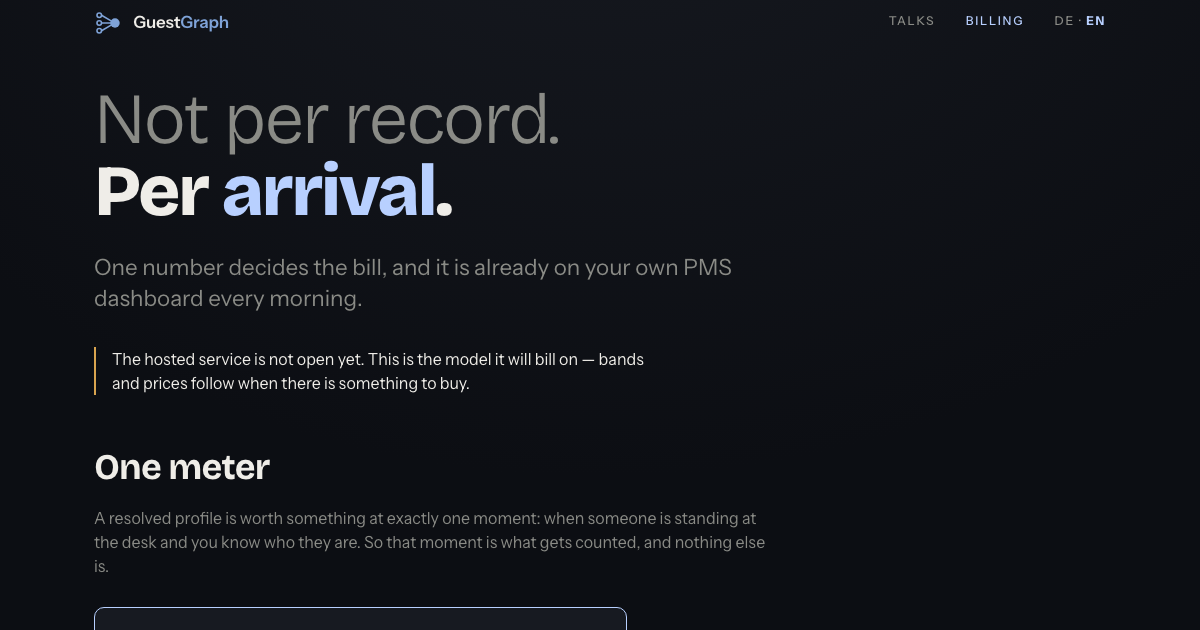
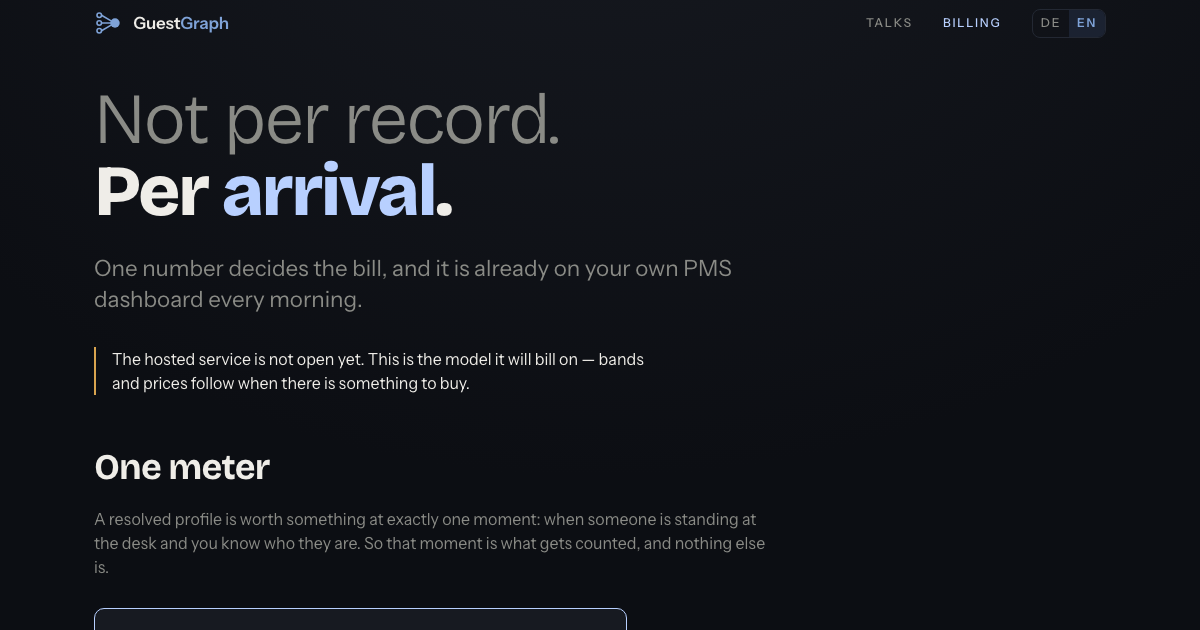
Give the pages the deck's language control, and align the header on its text
The switcher was one button with two clickable spans inside it: two targets to
a pointer, one button and two pieces of text to a screen reader, and the
current language signalled by colour alone. The deck already had the right
control in its transport — a segmented pair of real buttons carrying
aria-pressed — so the pages take that, at nav scale.

Putting a bordered control beside the words exposed that the row was never
aligned. `nav` is a flex row and its links stretched to the row's height with
their text at the top, so the words sat 5px above the control. Two fixes: the
row centres its items, and each link's box is symmetric about its own text —
the hover underline hangs below, so the space is mirrored above. One line now
runs through the middle of the wordmark, every nav item and both segments,
0.11px apart across all four pages.

Assert it with `headerBaseline`, measured on the text rather than the boxes: a
box can be centred while its text is not, which is precisely the bug, and a
check comparing boxes would have called it aligned. Two tolerances, because
there are two fonts — half a pixel across the nav row, which is one face at one
size, and 1.5px for the wordmark, where the line box inside the em box is the
font's business.

Two faults fell out of the work. The hover rule used the `border-color`
shorthand, which with a transparent border now on both edges drew a line above
the word as well as under it. And two pages carried two
[…]

diff --git a/billing/index.html b/billing/index.html
@@ -133,17 +133,36 @@
   .brand svg{width:28px; height:28px; color:var(--c-mid); flex:0 0 auto}
   .brand b{font-weight:600; font-size:1.06rem; letter-spacing:-.01em}
   .brand b span{color:var(--c-mid)}
-  nav{display:flex; gap:1.9rem; font-size:.76rem; font-weight:500;
+  /* `align-items:center`, not the default `stretch`: a stretched link is a box the height of
+     the whole row with its text at the top, which put the words above the language control
+     beside them. Centred, each box is its own height and one line runs through every text. */
+  nav{display:flex; align-items:center; gap:1.9rem; font-size:.76rem; font-weight:500;
       letter-spacing:.14em; text-transform:uppercase}
-  nav a{color:var(--dim); text-decoration:none; padding-bottom:.2rem; border-bottom:1px solid transparent}
-  nav a:hover, nav a:focus-visible{color:var(--ink); border-color:var(--c-mid)}
+  /* The hover underline hangs below the text, so the box is taller under the text than over
+     it. Mirror the space above, and the box is symmetric about its own text. */
+  nav a{color:var(--dim); text-decoration:none; padding:.2rem 0;
+        border-top:1px solid transparent; border-bottom:1px solid transparent}
+  /* Hover is an underline and nothing else: `border-bottom-color`, not `border-color`,
+     because the box now has a transparent border on both edges to keep its text centred,
+     and `border-color` painted a line above the word as well as under it.
+     The current page is not underlined — it is brighter. A page marks where you are with
+     a different weight of ink; the underline is what follows the pointer. When both used
+     the same line, the selected item read as permanently hovered. */
+  nav a:hover, nav a:focus-visible{border-bottom-color:var(--c-mid)}
   /* the page you are on is a resolved fact, so it takes the resolved colour */
   nav a[aria-current="page"]{color:var(--c-firm)}
-  .langind{font:inherit; letter-spacing:inherit; text-transform:inherit; background:none;
-           border:0; border-bottom:1px solid transparent; padding:0 0 .2rem; cursor:pointer;
-           color:var(--dim); white-space:nowrap}
-  .langind:hover{color:var(--ink)}
-  .langind .on{color:var(--c-firm); font-weight:700}
+  /* The segmented control the decks put in their transport, at nav scale. Two real buttons
+     in one bordered box, the pressed one filled — someone who has used the deck already
+     knows what it is. It replaces one button with two clickable spans inside it, which said
+     one thing to a pointer and another to a screen reader. */
+  .seg{display:inline-flex; border:1px solid var(--rule); border-radius:8px; overflow:hidden;
+       flex:0 0 auto}
+  .seg button{font:inherit; letter-spacing:inherit; text-transform:inherit; background:none;
+              border:0; cursor:pointer; padding:.26rem .5rem; color:var(--dim);
+              transition:color .15s ease, background-color .15s ease}
+  .seg button:hover{color:var(--ink)}
+  .seg button[aria-pressed="true"]{color:var(--c-mid); background:#1b2231; font-weight:600}
+  .seg button:focus-visible{outline:2px solid var(--c-mid); outline-offset:-2px}
 
   /* Not one screen: this page has an argument to make in order, so it scrolls and
      starts at the top rather than centring itself the way the landing page does. */
@@ -244,7 +263,7 @@
       <nav>
         <a href="../talks/" data-de="Vorträge">Talks</a>
         <a href="./" aria-current="page" data-de="Abrechnung">Billing</a>
-        <button class="langind" id="langind" type="button" aria-label="Sprache wechseln — switch language"><span id="lde">DE</span> · <span id="len">EN</span></button>
+        <div class="seg" id="langind" role="group" aria-label="Sprache wechseln — switch language"><button type="button" id="lde" aria-pressed="false">DE</button><button type="button" id="len" aria-pressed="true">EN</button></div>
       </nav>
     </div>
   </header>
@@ -336,15 +355,14 @@
     i18n.forEach(function(el){ el.innerHTML = el.getAttribute("data-" + lang); });
     document.title = UI[lang].title;
     document.getElementById("metadesc").setAttribute("content", UI[lang].desc);
-    document.getElementById("lde").classList.toggle("on", lang === "de");
-    document.getElementById("len").classList.toggle("on", lang === "en");
+    document.getElementById("lde").setAttribute("aria-pressed", String(lang === "de"));
+    document.getElementById("len").setAttribute("aria-pressed", String(lang === "en"));
     document.documentElement.lang = lang;
   }
   function toggle(){ lang = (lang === "de") ? "en" : "de"; remember(lang); applyLang(); }
 
-  document.getElementById("langind").addEventListener("click", toggle);
-  document.getElementById("lde").addEventListener("click", function(e){ e.stopPropagation(); if(lang!=="de") toggle(); });
-  document.getElementById("len").addEventListener("click", function(e){ e.stopPropagation(); if(lang!=="en") toggle(); });
+  document.getElementById("lde").addEventListener("click", function(){ if (lang !== "de") toggle(); });
+  document.getElementById("len").addEventListener("click", function(){ if (lang !== "en") toggle(); });
   document.addEventListener("keydown", function(e){ if(e.key === "l" || e.key === "L") toggle(); });
 
   applyLang();

diff --git a/index.html b/index.html
@@ -138,17 +138,37 @@
   .brand svg{width:28px; height:28px; color:var(--c-mid); flex:0 0 auto}
   .brand b{font-weight:600; font-size:1.06rem; letter-spacing:-.01em}
   .brand b span{color:var(--c-mid)}
-  nav{display:flex; gap:1.9rem; font-size:.76rem; font-weight:500;
+  /* `align-items:center`, not the default `stretch`: a stretched link is a box the height of
+     the whole row with its text at the top, which put the words above the language control
+     beside them. Centred, each box is its own height and one line runs through every text. */
+  nav{display:flex; align-items:center; gap:1.9rem; font-size:.76rem; font-weight:500;
       letter-spacing:.14em; text-transform:uppercase}
-  nav a{color:var(--dim); text-decoration:none; padding-bottom:.2rem; border-bottom:1px solid transparent}
-  nav a:hover, nav a:focus-visible{color:var(--ink); border-color:var(--c-mid)}
+  /* The hover underline hangs below the text, so the box is taller under the text than over
+     it. Mirror the space above, and the box is symmetric about its own text. */
+  nav a{color:var(--dim); text-decoration:none; padding:.2rem 0;
+        border-top:1px solid transparent; border-bottom:1px solid transparent}
+  /* Hover is an underline and nothing else: `border-bottom-color`, not `border-color`,
+     because the box now has a transparent border on both edges to keep its text centred,
+     and `border-color` painted a line above the word as well as under it.
+     The current page is not underlined — it is brighter. A page marks where you are with
+     a different weight of ink; the underline is what follows the pointer. When both used
+     the same line, the selected item read as permanently hovered. */
+  nav a:hover, nav a:focus-visible{border-bottom-color:var(--c-mid)}
+  nav a[aria-current="page"]{color:var(--c-firm)}
   /* the language control is a nav item, not a floating badge: it belongs with the
      other things you can do to the page rather than on top of the page */
-  .langind{font:inherit; letter-spacing:inherit; text-transform:inherit; background:none;
-           border:0; border-bottom:1px solid transparent; padding:0 0 .2rem; cursor:pointer;
-           color:var(--dim); white-space:nowrap}
-  .langind:hover{color:var(--ink)}
-  .langind .on{color:var(--c-firm); font-weight:700}
+  /* The segmented control the decks put in their transport, at nav scale. Two real buttons
+     in one bordered box, the pressed one filled — someone who has used the deck already
+     knows what it is. It replaces one button with two clickable spans inside it, which said
+     one thing to a pointer and another to a screen reader. */
+  .seg{display:inline-flex; border:1px solid var(--rule); border-radius:8px; overflow:hidden;
+       flex:0 0 auto}
+  .seg button{font:inherit; letter-spacing:inherit; text-transform:inherit; background:none;
+              border:0; cursor:pointer; padding:.26rem .5rem; color:var(--dim);
+              transition:color .15s ease, background-color .15s ease}
+  .seg button:hover{color:var(--ink)}
+  .seg button[aria-pressed="true"]{color:var(--c-mid); background:#1b2231; font-weight:600}
+  .seg button:focus-visible{outline:2px solid var(--c-mid); outline-offset:-2px}
 
   main{flex:1; display:flex; align-items:center; padding:2vh 0 5vh}
 
@@ -284,7 +304,7 @@
       <nav>
         <a href="talks/" data-de="Vorträge">Talks</a>
         <a href="billing/" data-de="Abrechnung">Billing</a>
-        <button class="langind" id="langind" type="button" aria-label="Sprache wechseln — switch language"><span id="lde">DE</span> · <span id="len">EN</span></button>
+        <div class="seg" id="langind" role="group" aria-label="Sprache wechseln — switch language"><button type="button" id="lde" aria-pressed="false">DE</button><button type="button" id="len" aria-pressed="true">EN</button></div>
       </nav>
     </div>
   </header>
@@ -386,15 +406,14 @@
     i18n.forEach(function(el){ el.innerHTML = el.getAttribute("data-" + lang); });
     document.title = UI[lang].title;
     document.getElementById("metadesc").setAttribute("content", UI[lang].desc);
-    document.getElementById("lde").classList.toggle("on", lang === "de");
-    document.getElementById("len").classList.toggle("on", lang === "en");
+    document.getElementById("lde").setAttribute("aria-pressed", String(lang === "de"));
+    document.getElementById("len").setAttribute("aria-pressed", String(lang === "en"));
     document.documentElement.lang = lang;
   }
   function toggle(){ lang = (lang === "de") ? "en" : "de"; remember(lang); applyLang(); }
 
-  document.getElementById("langind").addEventListener("click", toggle);
-  document.getElementById("lde").addEventListener("click", function(e){ e.stopPropagation(); if(lang!=="de") toggle(); });
-  document.getElementById("len").addEventListener("click", function(e){ e.stopPropagation(); if(lang!=="en") toggle(); });
+  document.getElementById("lde").addEventListener("click", function(){ if (lang !== "de") toggle(); });
+  document.getElementById("len").addEventListener("click", function(){ if (lang !== "en") toggle(); });
   document.addEventListener("keydown", function(e){ if(e.key === "l" || e.key === "L") toggle(); });
 
   applyLang();

diff --git a/talks/index.html b/talks/index.html
@@ -143,20 +143,36 @@
   .brand b span{color:var(--c-mid)}
   nav{display:flex; align-items:center; gap:1.9rem; font-size:.76rem; font-weight:500;
       letter-spacing:.14em; text-transform:uppercase}
-  nav a{color:var(--dim); text-decoration:none; padding-bottom:.2rem; border-bottom:1px solid transparent}
-  nav a:hover, nav a:focus-visible{color:var(--ink); border-color:var(--c-mid)}
+  /* The hover underline hangs below the text, so the box is taller under the text than over
+     it. Mirror the space above, and the box is symmetric about its own text. */
+  nav a{color:var(--dim); text-decoration:none; padding:.2rem 0;
+        border-top:1px solid transparent; border-bottom:1px solid transparent}
+  /* Hover is an underline and nothing else: `border-bottom-color`, not `border-color`,
+     because the box now has a transparent border on both edges to keep its text centred,
+     and `border-color` painted a line above the word as well as under it.
+     The current page is not underlined — it is brighter. A page marks where you are with
+     a different weight of ink; the underline is what follows the pointer. When both used
+     the same line, the selected item read as permanently hovered. */
+  nav a:hover, nav a:focus-visible{border-bottom-color:var(--c-mid)}
   /* the bar is the same component on both sites, so this page says which one you are on
      rather than dropping the item and leaving the header subtly different */
-  nav a[aria-current="page"]{color:var(--c-firm); border-color:var(--c-firm)}
+  nav a[aria-current="page"]{color:var(--c-firm)}
 
   /* The language control lives in the bar rather than floating over the page. The deck
      keeps its fixed DE/EN indicator because a deck is presented; this is a page that is
      clicked, and a visible control in the header explains itself without a key hint. */
-  .langind{font:inherit; letter-spacing:inherit; text-transform:inherit; background:none;
-           border:0; border-bottom:1px solid transparent; padding:0 0 .2rem; cursor:pointer;
-           color:var(--dim); white-space:nowrap}
-  .langind:hover{color:var(--ink)}
-  .langind .on{color:var(--c-mid); font-weight:700}
+  /* The segmented control the decks put in their transport, at nav scale. Two real buttons
+     in one bordered box, the pressed one filled — someone who has used the deck already
+     knows what it is. It replaces one button with two clickable spans inside it, which said
+     one thing to a pointer and another to a screen reader. */
+  .seg{display:inline-flex; border:1px solid var(--rule); border-radius:8px; overflow:hidden;
+       flex:0 0 auto}
+  .seg button{font:inherit; letter-spacing:inherit; text-transform:inherit; background:none;
+              border:0; cursor:pointer; padding:.26rem .5rem; color:var(--dim);
+              transition:color .15s ease, background-color .15s ease}
+  .seg button:hover{color:var(--ink)}
+  .seg button[aria-pressed="true"]{color:var(--c-mid); background:#1b2231; font-weight:600}
+  .seg button:focus-visible{outline:2px solid var(--c-mid); outline-offset:-2px}
 
   /* vertically centred, as on guestgraph.io: with a short list the alternative is a
      column of content sitting above a screen-height void */
@@ -244,7 +260,7 @@
       <nav>
         <a href="./" aria-current="page" data-de="Vorträge">Talks</a>
         <a href="../billing/" data-de="Abrechnung">Billing</a>
-        <button class="langind" id="langind" type="button" aria-label="Sprache wechseln — switch language"><span id="lde">DE</span> · <span id="len">EN</span></button>
+        <div class="seg" id="langind" role="group" aria-label="Sprache wechseln — switch language"><button type="button" id="lde" aria-pressed="false">DE</button><button type="button" id="len" aria-pressed="true">EN</button></div>
       </nav>
     </div>
   </header>
@@ -311,8 +327,8 @@
     });
     document.title = UI[lang].title;
     document.getElementById('metadesc').setAttribute('content', UI[lang].desc);
-    document.getElementById('lde').classList.toggle('on', lang === 'de');
-    document.getElementById('len').classList.toggle('on', lang === 'en');
+    document.getElementById('lde').setAttribute('aria-pressed', String(lang === 'de'));
+    document.getElementById('len').setAttribute('aria-pressed', String(lang === 'en'));
     document.documentElement.lang = lang;
   }
   function toggle(){ lang = (lang === 'de') ? 'en' : 'de'; remember(lang); applyLang(); }
@@ -322,9 +338,8 @@
   document.addEventListener('keydown', function(e){
     if(e.key === 'l' || e.key === 'L'){ toggle(); }
   });
-  document.getElementById('langind').addEventListener('click', toggle);
-  document.getElementById('lde').addEventListener('click', function(e){ e.stopPropagation(); if(lang!=='de') toggle(); });
-  document.getElementById('len').addEventListener('click', function(e){ e.stopPropagation(); if(lang!=='en') toggle(); });
+  document.getElementById('lde').addEventListener('click', function(){ if (lang !== 'de') toggle(); });
+  document.getElementById('len').addEventListener('click', function(){ if (lang !== 'en') toggle(); });
 
   applyLang();
 </script>

diff --git a/privacy/index.html b/privacy/index.html
@@ -132,15 +132,35 @@
   .brand svg{width:28px; height:28px; color:var(--c-mid); flex:0 0 auto}
   .brand b{font-weight:600; font-size:1.06rem; letter-spacing:-.01em}
   .brand b span{color:var(--c-mid)}
-  nav{display:flex; gap:1.9rem; font-size:.76rem; font-weight:500;
+  /* `align-items:center`, not the default `stretch`: a stretched link is a box the height of
+     the whole row with its text at the top, which put the words above the language control
+     beside them. Centred, each box is its own height and one line runs through every text. */
+  nav{display:flex; align-items:center; gap:1.9rem; font-size:.76rem; font-weight:500;
       letter-spacing:.14em; text-transform:uppercase}
-  nav a{color:var(--dim); text-decoration:none; padding-bottom:.2rem; border-bottom:1px solid transparent}
-  nav a:hover, nav a:focus-visible{color:var(--ink); border-color:var(--c-mid)}
-  .langind{font:inherit; letter-spacing:inherit; text-transform:inherit; background:none;
-           border:0; border-bottom:1px solid transparent; padding:0 0 .2rem; cursor:pointer;
-           color:var(--dim); white-space:nowrap}
-  .langind:hover{color:var(--ink)}
-  .langind .on{color:var(--c-firm); font-weight:700}
+  /* The hover underline hangs below the text, so the box is taller under the text than over
+     it. Mirror the space above, and the box is symmetric about its own text. */
+  nav a{color:var(--dim); text-decoration:none; padding:.2rem 0;
+        border-top:1px solid transparent; border-bottom:1px solid transparent}
+  /* Hover is an underline and nothing else: `border-bottom-color`, not `border-color`,
+     because the box now has a transparent border on both edges to keep its text centred,
+     and `border-color` painted a line above the word as well as under it.
+     The current page is not underlined — it is brighter. A page marks where you are with
+     a different weight of ink; the underline is what follows the pointer. When both used
+     the same line, the selected item read as permanently hovered. */
+  nav a:hover, nav a:focus-visible{border-bottom-color:var(--c-mid)}
+  nav a[aria-current="page"]{color:var(--c-firm)}
+  /* The segmented control the decks put in their transport, at nav scale. Two real buttons
+     in one bordered box, the pressed one filled — someone who has used the deck already
+     knows what it is. It replaces one button with two clickable spans inside it, which said
+     one thing to a pointer and another to a screen reader. */
+  .seg{display:inline-flex; border:1px solid var(--rule); border-radius:8px; overflow:hidden;
+       flex:0 0 auto}
+  .seg button{font:inherit; letter-spacing:inherit; text-transform:inherit; background:none;
+              border:0; cursor:pointer; padding:.26rem .5rem; color:var(--dim);
+              transition:color .15s ease, background-color .15s ease}
+  .seg button:hover{color:var(--ink)}
+  .seg button[aria-pressed="true"]{color:var(--c-mid); background:#1b2231; font-weight:600}
+  .seg button:focus-visible{outline:2px solid var(--c-mid); outline-offset:-2px}
 
   main{flex:1; padding:2vh 0 6vh}
 
@@ -242,7 +262,7 @@
       <nav>
         <a href="../talks/" data-de="Vorträge">Talks</a>
         <a href="../billing/" data-de="Abrechnung">Billing</a>
-        <button class="langind" id="langind" type="button" aria-label="Sprache wechseln — switch language"><span id="lde">DE</span> · <span id="len">EN</span></button>
+        <div class="seg" id="langind" role="group" aria-label="Sprache wechseln — switch language"><button type="button" id="lde" aria-pressed="false">DE</button><button type="button" id="len" aria-pressed="true">EN</button></div>
       </nav>
     </div>
   </header>
@@ -331,15 +351,14 @@
     i18n.forEach(function(el){ el.innerHTML = el.getAttribute("data-" + lang); });
     document.title = UI[lang].title;
     document.getElementById("metadesc").setAttribute("content", UI[lang].desc);
-    document.getElementById("lde").classList.toggle("on", lang === "de");
-    document.getElementById("len").classList.toggle("on", lang === "en");
+    document.getElementById("lde").setAttribute("aria-pressed", String(lang === "de"));
+    document.getElementById("len").setAttribute("aria-pressed", String(lang === "en"));
     document.documentElement.lang = lang;
   }
   function toggle(){ lang = (lang === "de") ? "en" : "de"; remember(lang); applyLang(); }
 
-  document.getElementById("langind").addEventListener("click", toggle);
-  document.getElementById("lde").addEventListener("click", function(e){ e.stopPropagation(); if(lang!=="de") toggle(); });
-  document.getElementById("len").addEventListener("click", function(e){ e.stopPropagation(); if(lang!=="en") toggle(); });
+  document.getElementById("lde").addEventListener("click", function(){ if (lang !== "de") toggle(); });
+  document.getElementById("len").addEventListener("click", function(){ if (lang !== "en") toggle(); });
   document.addEventListener("keydown", function(e){ if(e.key === "l" || e.key === "L") toggle(); });
 
   applyLang();
